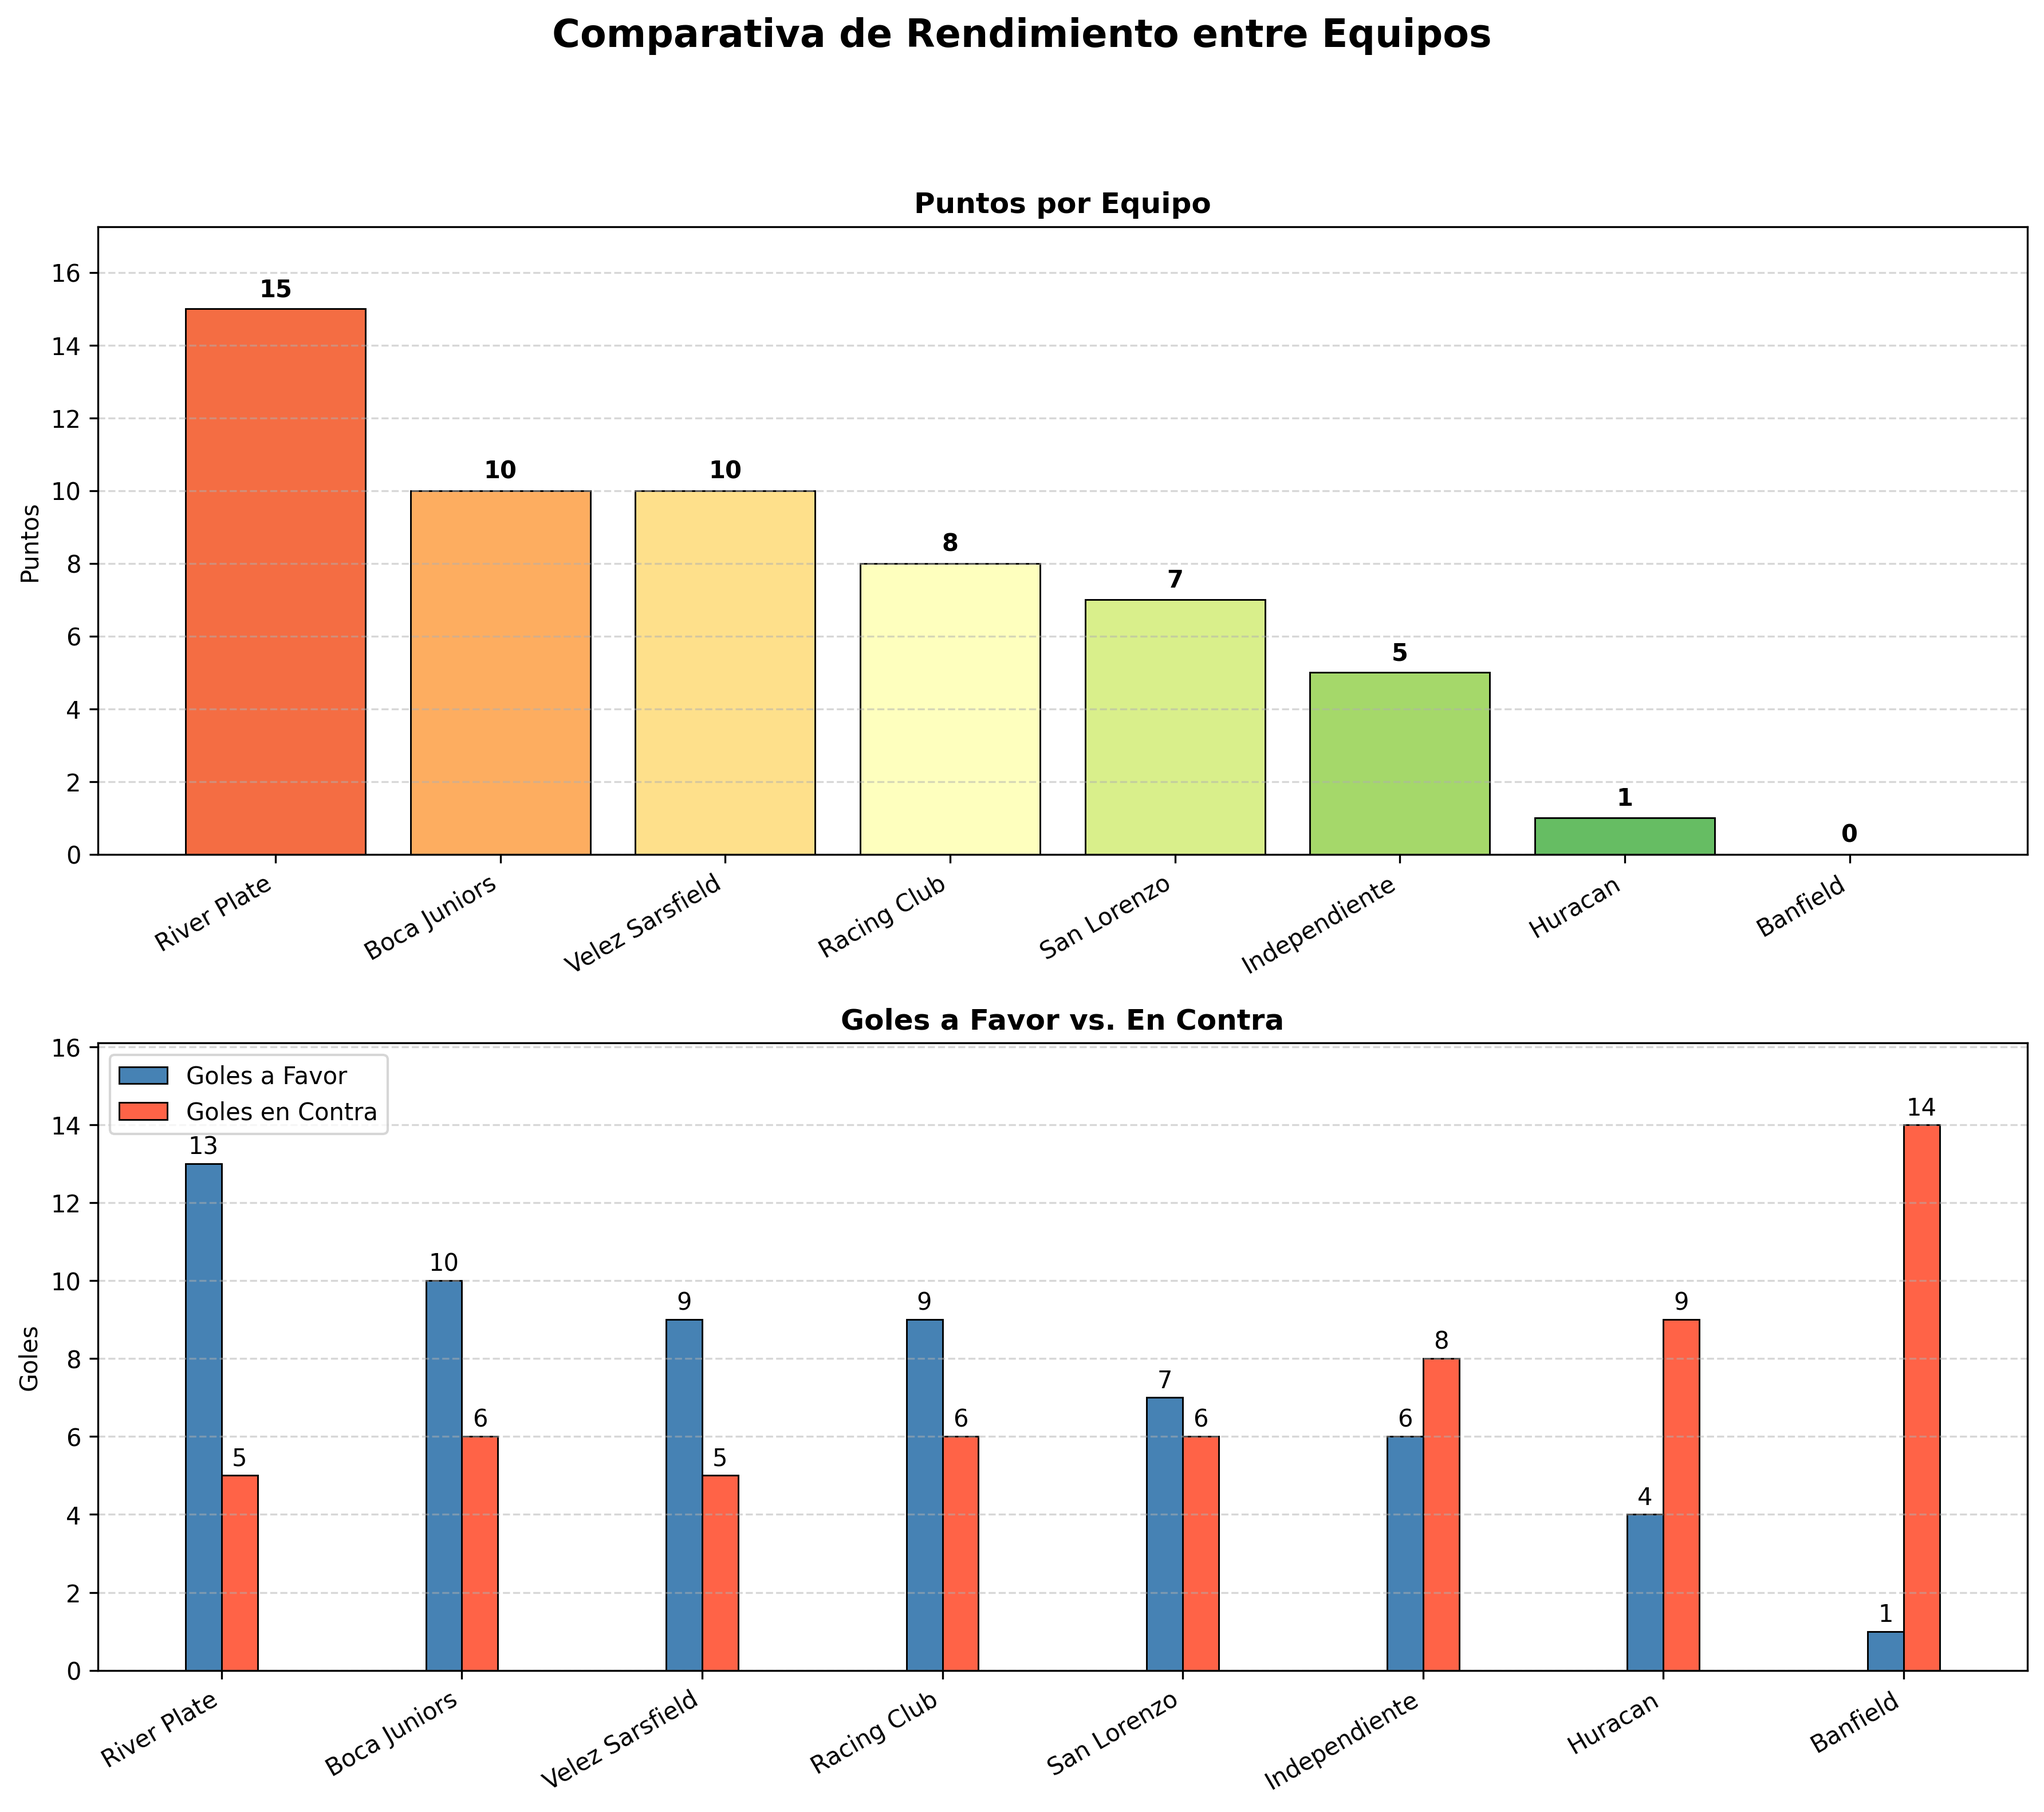
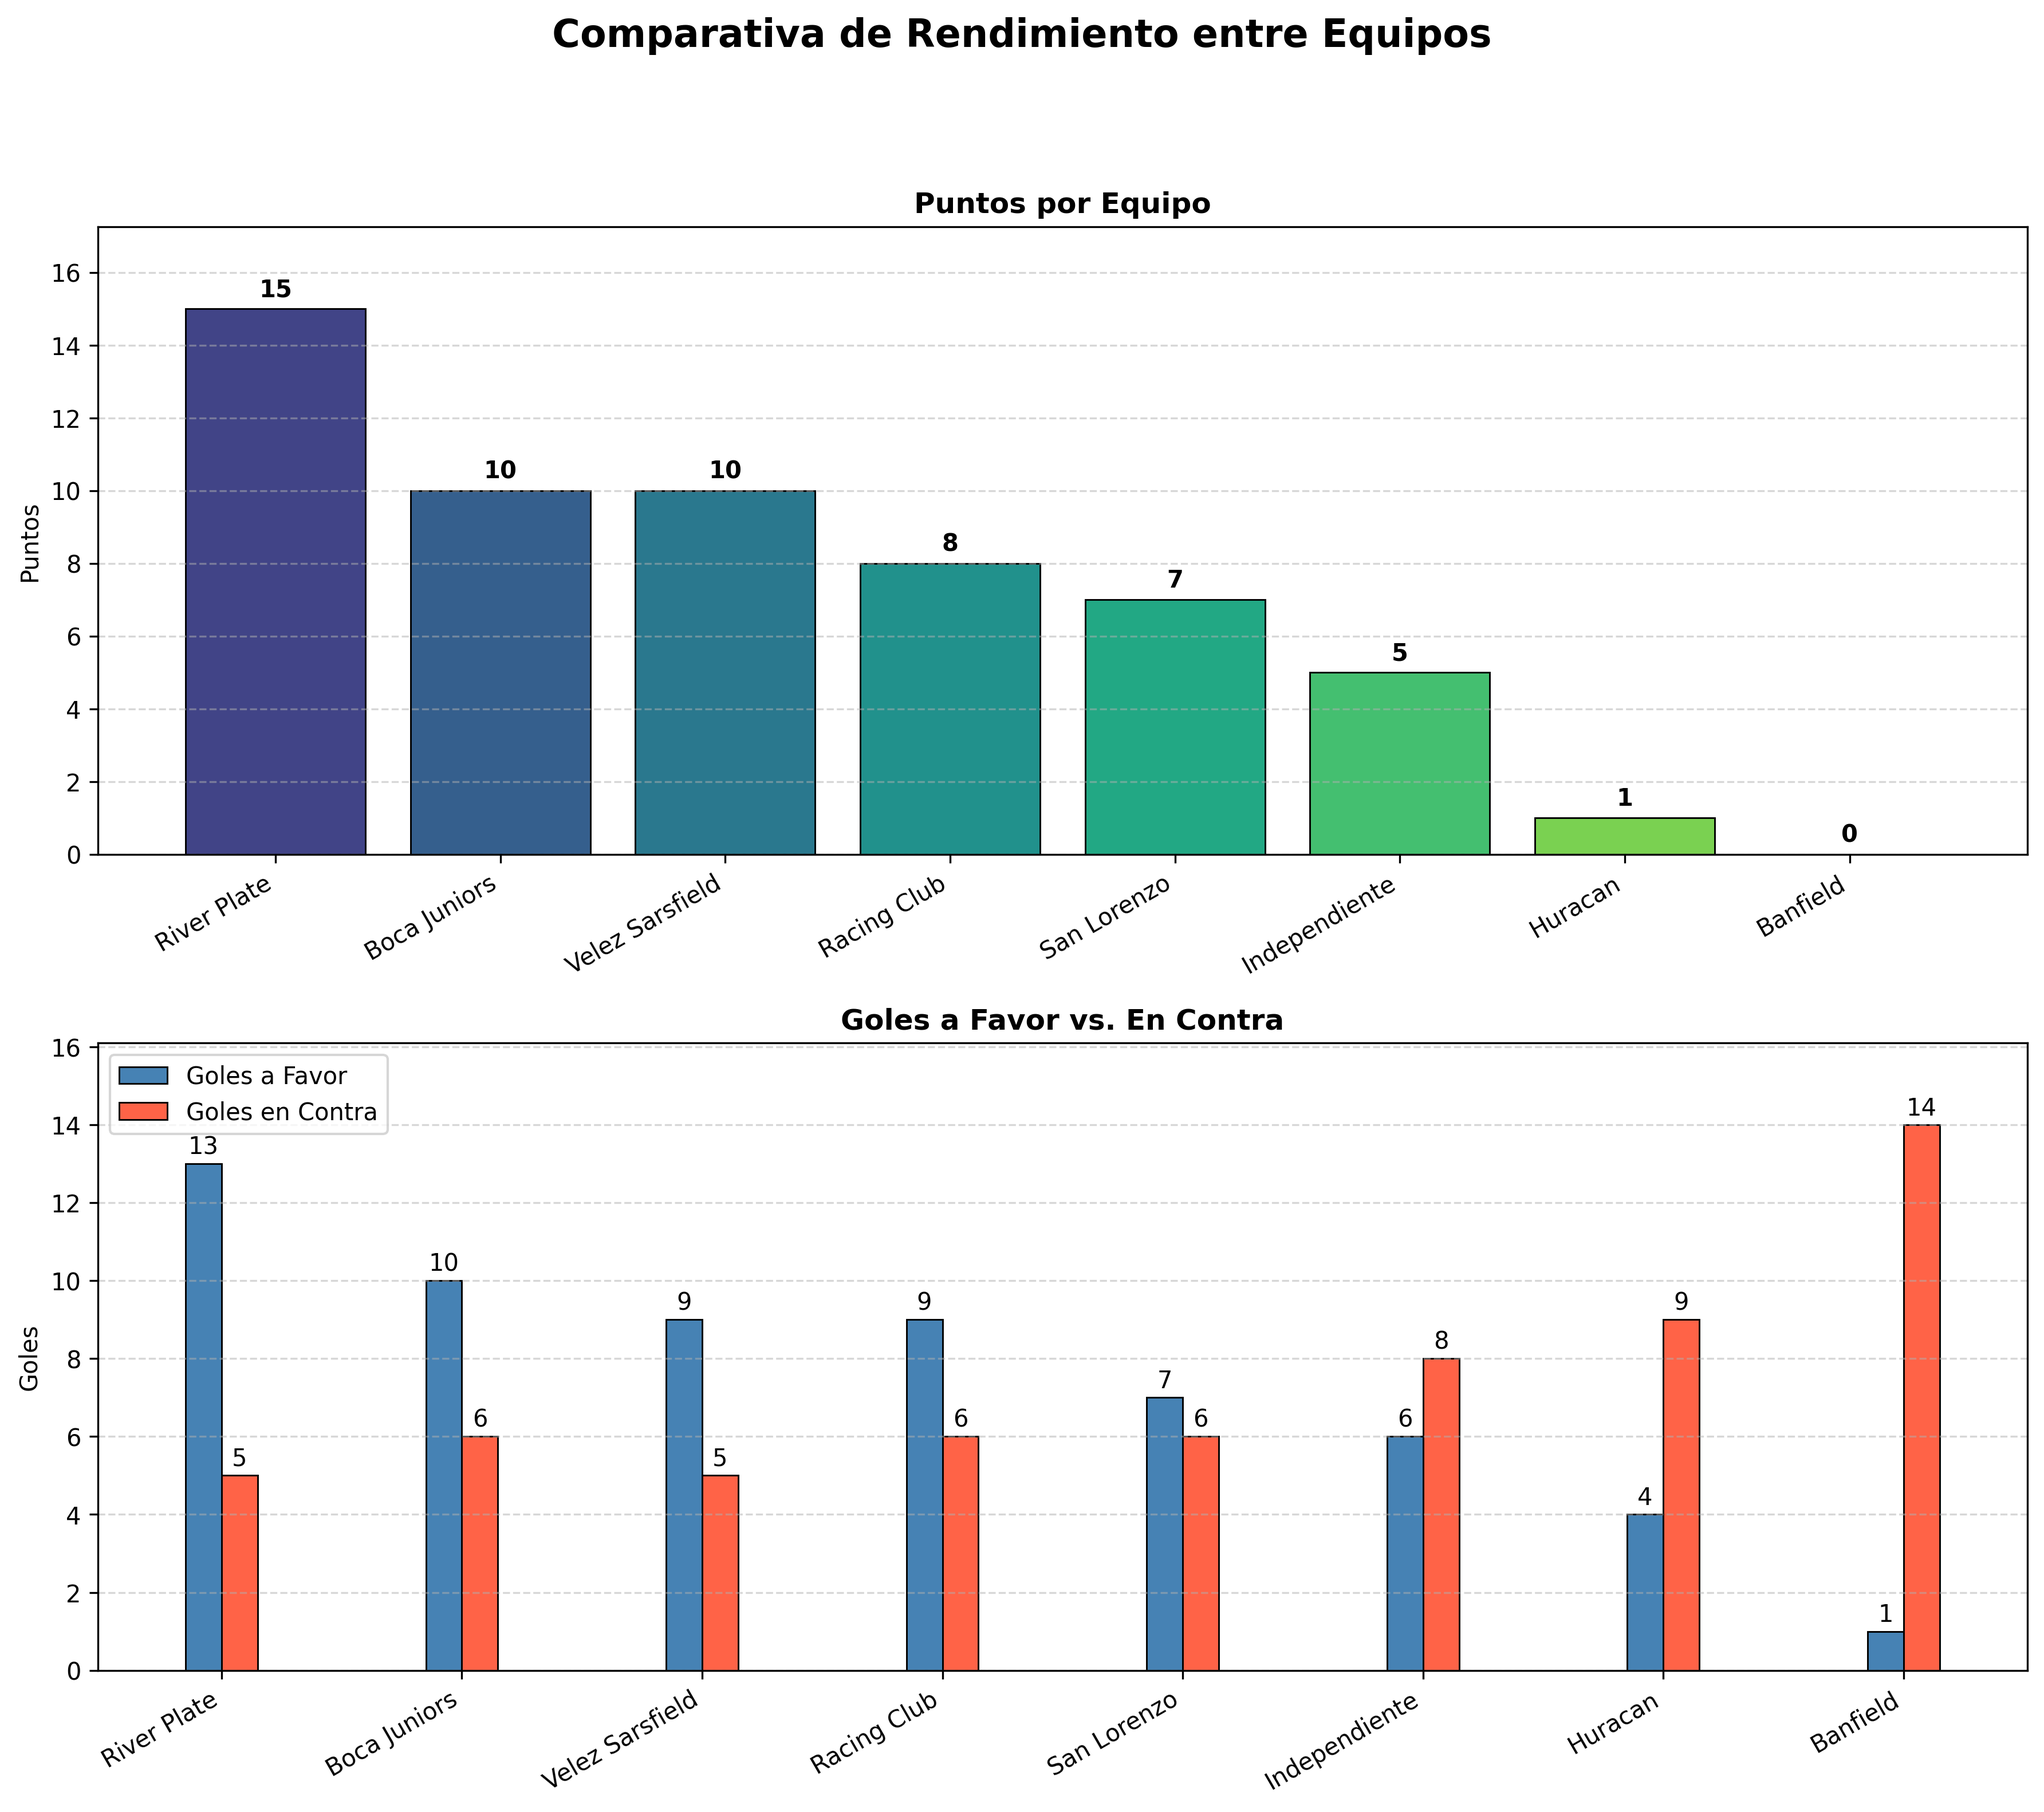
mejorando visual de los datos y solucionando problemas

Changed region(s): [[0.0933, 0.1549, 0.7464, 0.4956]]

diff --git a/scripts/funciones.py b/scripts/funciones.py
@@ -1,10 +1,15 @@
+"""..."""
 import pandas as pd
 import matplotlib.pyplot as plt
 import numpy as np
-# leemos el archivo CSV con los resultados del torneo, utilizando el separador ';' y la codificación 'latin-1'
+# leemos el archivo CSV con los resultados del torneo,
+# utilizando el separador ';' y la codificación 'latin-1'
 df = pd.read_csv('datos/resultados_torneo.csv',sep=';',encoding='latin-1')
-# funcion para calcular las estadisticas de los equipos, recorriendo el CSV una sola vez y devolviendo un diccionario con las estadisticas necesarias para las demás funciones
+# funcion para calcular las estadisticas de los equipos,
+# recorriendo el CSV una sola vez y
+# devolviendo un diccionario con las estadisticas necesarias para las demás funciones
 def calcular_estadisticas():
+    """Calcula las estadísticas de los equipos a partir de los resultados de los partidos."""
     estadisticas= {}
 # recorremos el CSV una sola vez, utilizando iterrows() para obtener cada fila como un diccionario
     for _, partido in df.iterrows():
@@ -12,7 +17,7 @@ def calcular_estadisticas():
         equipo_visitante = partido['Equipo_Visitante']
         goles_local = partido['Goles_Local']
         goles_visitante = partido['Goles_Visitante']
-        # para cada equipo, si no está en el diccionario de estadisticas, lo inicializamos con 0  
+        # para cada equipo, si no está en el diccionario de estadisticas, lo inicializamos con 0
         for equipo in [equipo_local, equipo_visitante]:
             if equipo not in estadisticas:
                 estadisticas[equipo] = {'Puntos': 0,
@@ -21,7 +26,8 @@ def calcular_estadisticas():
                                         'Victorias': 0,
                                         'Empates': 0,
                                         'Derrotas': 0}
-        # calculamos los puntos, victorias, empates y derrotas para cada equipo, dependiendo del resultado del partido
+        # calculamos los puntos, victorias, empates y
+        # derrotas para cada equipo, dependiendo del resultado del partido
         if goles_local > goles_visitante:
             estadisticas[equipo_local]['Puntos'] += 3
             estadisticas[equipo_local]['Victorias'] += 1
@@ -31,7 +37,7 @@ def calcular_estadisticas():
             estadisticas[equipo_local]['Derrotas'] += 1
             estadisticas[equipo_visitante]['Puntos'] += 3
         else:
-            estadisticas[equipo_local]['Puntos'] += 1           
+            estadisticas[equipo_local]['Puntos'] += 1
             estadisticas[equipo_visitante]['Puntos'] += 1
             estadisticas[equipo_local]['Empates'] += 1
             estadisticas[equipo_visitante]['Empates'] += 1
@@ -44,19 +50,26 @@ def calcular_estadisticas():
 # funcion para calcular la cantidad de partidos ganados por cada equipo,
 # utilizando el diccionario de estadisticas calculado previamente
 def partidos_ganados():
+    """Calcula y muestra la cantidad de partidos ganados por cada equipo."""
     victorias = calcular_estadisticas()
     ordenado = sorted(victorias.items(), key=lambda x: x[1]['Victorias'], reverse=True)
     for equipo, datos in ordenado:
         print(f"{equipo}: {datos['Victorias']} partidos ganados")
-# funcion para calcular la tabla de posiciones, ordenando el diccionario de estadisticas por puntos y mostrando los resultados
+# funcion para calcular la tabla de posiciones,
+# ordenando el diccionario de estadisticas por puntos y mostrando los resultados
 def tabla_posiciones():
+    """Calcula y muestra la tabla de posiciones ordenada por puntos."""
     posiciones = calcular_estadisticas()
     tabla_ordenada = sorted(posiciones.items(), key=lambda x: x[1]['Puntos'], reverse=True)
     print("Tabla de posiciones:")
     for equipo, datos in tabla_ordenada:
-        print(f"{equipo}: Puntos:{datos['Puntos']}, Goles a Favor:{datos['Goles_Favor']}, Goles en Contra:{datos['Goles_Contra']}")
-# funcion para calcular el promedio de goles por partido, sumando los goles locales y visitantes y dividiendo por la cantidad de partidos
+        print(f"{equipo}: Puntos:{datos['Puntos']},"
+              f" Goles a Favor:{datos['Goles_Favor']},"
+              f" Goles en Contra:{datos['Goles_Contra']}")
+# funcion para calcular el promedio de goles por partido,
+# sumando los goles locales y visitantes y dividiendo por la cantidad de partidos
 def promedio_goles():
+    """Calcula y muestra el promedio de goles por partido."""
     total_goles = df['Goles_Local'].sum() + df['Goles_Visitante'].sum()
     total_partidos = len(df)
     promedio = total_goles / total_partidos if total_partidos > 0 else 0
@@ -65,21 +78,22 @@ def promedio_goles():
 # utilizando el diccionario de estadisticas calculado previamente y mostrando los puntos,
 # goles a favor y goles en contra de cada equipo en un gráfico de barras
 def grafico_comparativo():
+    """Genera un gráfico comparativo de rendimiento entre equipos."""
     estadisticas = calcular_estadisticas()
-    estadisticas_ordenadas = sorted(estadisticas.items(), key=lambda x: x[1]['Puntos'], reverse=True)
+    estadisticas_ordenadas = sorted(estadisticas.items(),key=lambda x: x[1]['Puntos'],reverse=True)
     equipos = list(equipo for equipo, _ in estadisticas_ordenadas)
     puntos = [datos['Puntos'] for equipo, datos in estadisticas_ordenadas]
     goles_favor = [datos['Goles_Favor'] for _, datos in estadisticas_ordenadas]
     goles_contra = [datos['Goles_Contra'] for _, datos in estadisticas_ordenadas]
-    victorias = [datos['Victorias'] for _, datos in estadisticas_ordenadas]
-    empates = [datos['Empates'] for _, datos in estadisticas_ordenadas]
-    derrotas = [datos['Derrotas'] for _, datos in estadisticas_ordenadas]
+    # victorias = [datos['Victorias'] for _, datos in estadisticas_ordenadas]
+    # empates = [datos['Empates'] for _, datos in estadisticas_ordenadas]
+    # derrotas = [datos['Derrotas'] for _, datos in estadisticas_ordenadas]
 
     x = np.arange(len(equipos))
     ancho = 0.15
     fig, axes = plt.subplots(2, 1, figsize=(12, 10))
     fig.suptitle('Comparativa de Rendimiento entre Equipos', fontsize=16, fontweight='bold', y=1.05)
-    colores = plt.cm.RdYlGn(np.linspace(0.2, 0.9, len(equipos)))
+    colores = plt.colormaps['viridis'](np.linspace(0.2, 0.9, len(equipos)))
     barras  = axes[0].bar(equipos, puntos, color=colores, edgecolor='black', linewidth=0.7)
     axes[0].set_title('Puntos por Equipo', fontweight='bold')
     axes[0].set_ylabel('Puntos')
@@ -88,7 +102,6 @@ def grafico_comparativo():
     axes[0].bar_label(barras, padding=3, fontweight='bold')
     axes[0].set_ylim(0, max(puntos) * 1.15)
     axes[0].grid(axis='y', linestyle='--', alpha=0.5)
-    
     b1 = axes[1].bar(x - ancho / 2, goles_favor,  ancho, label='Goles a Favor',
                      color='steelblue', edgecolor='black', linewidth=0.7)
     b2 = axes[1].bar(x + ancho / 2, goles_contra, ancho, label='Goles en Contra',
@@ -105,3 +118,11 @@ def grafico_comparativo():
     plt.tight_layout()
     plt.savefig('comparativa_rendimiento.png', dpi=300, bbox_inches='tight')
     plt.show()
+def detalle_partidos():
+    """Muestra el detalle de los partidos jugados."""
+    ver_partidos = input("¿Desea ver el detalle de los partidos? (s/n): ").strip().lower()
+    if ver_partidos == 's':
+        print("\nDetalle de los partidos:")
+        for _, partido in df.iterrows():
+            print(f"{partido['Equipo_Local']} {partido['Goles_Local']} - "
+                  f"{partido['Goles_Visitante']} {partido['Equipo_Visitante']}")

diff --git a/scripts/app.py b/scripts/app.py
@@ -1,3 +1,4 @@
+"""..."""
 # Escenario D – Estadísticas de Resultados Deportivos
 # El equipo analizará datos correspondientes a resultados de un campeonato deportivo.
 # Objetivo
@@ -11,11 +12,19 @@
 # ● Generar un gráfico comparativo de rendimiento entre equipos.
 
 #importo el archivo con los resultados de los partidos
-from funciones import grafico_comparativo, partidos_ganados, tabla_posiciones, promedio_goles
+from funciones import (detalle_partidos, grafico_comparativo, partidos_ganados,
+                        partidos_ganados, tabla_posiciones, promedio_goles)
 
 if __name__ == "__main__":
+    detalle_partidos()
+    print("\nEstadísticas del campeonato:")
+    print("-" * 30)
+    print("Cantidad de partidos ganados por cada equipo:")
     partidos_ganados()
+    print("-" * 30)
     tabla_posiciones()
+    print("-" * 30)
     promedio_goles()
+    print("-" * 30)
     grafico_comparativo()
     
